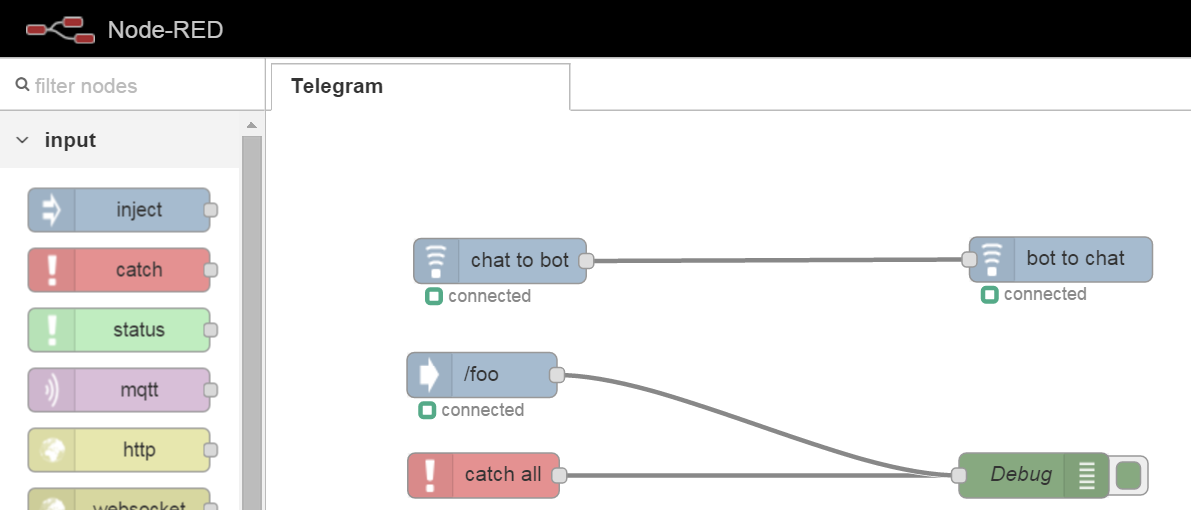
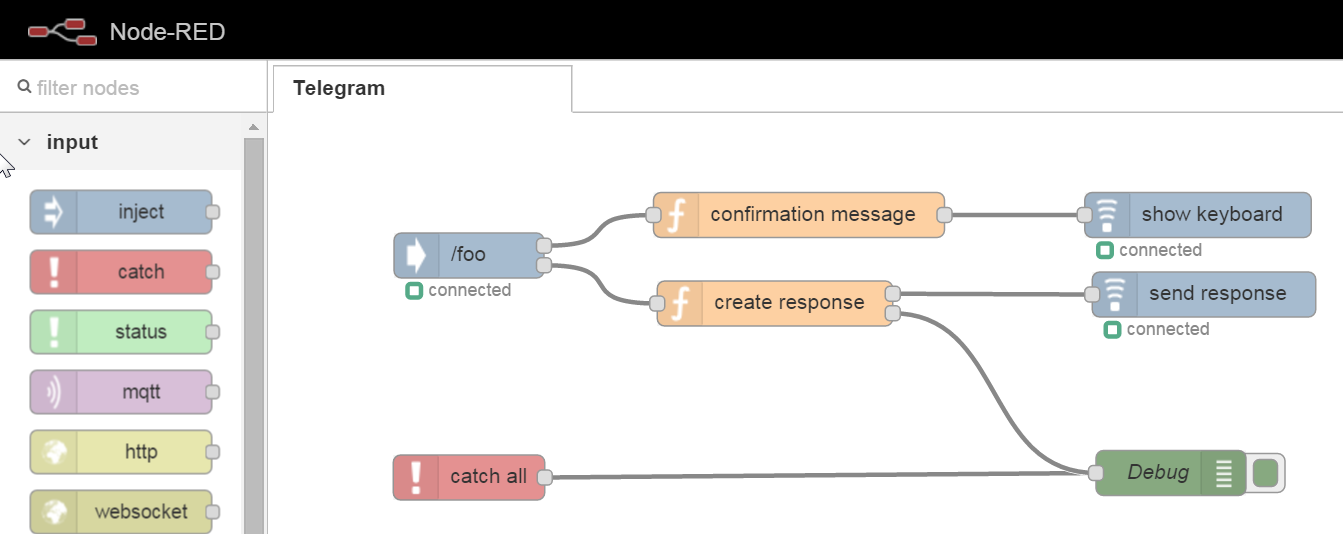
added reply markup support added simple example flows

diff --git a/telegrambot/99-telegrambot.js b/telegrambot/99-telegrambot.js
@@ -18,11 +18,13 @@ module.exports = function(RED) {
         if (this.credentials) {
             this.token = this.credentials.token;
             if (this.token) {
-                this.telegramBot = new telegramBot(this.token, { polling: true });
+                if (!this.telegramBot) {
+                    this.telegramBot = new telegramBot(this.token, { polling: true });
+                }
             }
         }
     }
-    RED.nodes.registerType("telegram-bot", TelegramBotNode, {
+    RED.nodes.registerType("telegram bot", TelegramBotNode, {
         credentials: {
             token: { type: "text" }
         }
@@ -63,31 +65,31 @@ module.exports = function(RED) {
 
                     var messageDetails;
                     if (botMsg.text) {
-                        messageDetails =  { chatId : botMsg.chat.id, type : 'message', content: botMsg.text };
+                        messageDetails = { chatId : botMsg.chat.id, messageId : botMsg.message_id, type : 'message', content: botMsg.text };
                     }
                     else if (botMsg.photo) {
-                        messageDetails = { chatId : botMsg.chat.id, type : 'photo', content: botMsg.photo[0].file_id, caption : botMsg.caption, date : botMsg.date };
+                        messageDetails = { chatId : botMsg.chat.id, messageId : botMsg.message_id, type : 'photo', content: botMsg.photo[0].file_id, caption : botMsg.caption, date : botMsg.date };
                     }
                     else if (botMsg.audio) {
-                        messageDetails = { chatId : botMsg.chat.id, type : 'audio', content: botMsg.audio.file_id, caption : botMsg.caption, date : botMsg.date };
+                        messageDetails = { chatId : botMsg.chat.id, messageId : botMsg.message_id, type : 'audio', content: botMsg.audio.file_id, caption : botMsg.caption, date : botMsg.date };
                     }
                     else if (botMsg.document) {
-                        messageDetails = { chatId : botMsg.chat.id, type : 'document', content: botMsg.document.file_id, caption : botMsg.caption, date : botMsg.date };
+                        messageDetails = { chatId : botMsg.chat.id, messageId : botMsg.message_id, type : 'document', content: botMsg.document.file_id, caption : botMsg.caption, date : botMsg.date };
                     }
                     else if (botMsg.sticker) {
-                        messageDetails = { chatId : botMsg.chat.id, type : 'sticker', content: botMsg.sticker.file_id };
+                        messageDetails = { chatId : botMsg.chat.id, messageId : botMsg.message_id, type : 'sticker', content: botMsg.sticker.file_id };
                     }
                     else if (botMsg.video) {
-                        messageDetails = { chatId : botMsg.chat.id, type : 'video', content: botMsg.video.file_id, caption : botMsg.caption, date : botMsg.date };
+                        messageDetails = { chatId : botMsg.chat.id, messageId : botMsg.message_id, type : 'video', content: botMsg.video.file_id, caption : botMsg.caption, date : botMsg.date };
                     }
                     else if (botMsg.voice) {
-                        messageDetails = { chatId : botMsg.chat.id, type : 'voice', content: botMsg.voice.file_id, caption : botMsg.caption, date : botMsg.date };
+                        messageDetails = { chatId : botMsg.chat.id, messageId : botMsg.message_id, type : 'voice', content: botMsg.voice.file_id, caption : botMsg.caption, date : botMsg.date };
                     } 
                     else if (botMsg.location) {
-                        messageDetails = { chatId : botMsg.chat.id, type : 'location', content: botMsg.location };
+                        messageDetails = { chatId : botMsg.chat.id, messageId : botMsg.message_id, type : 'location', content: botMsg.location };
                     }
                     else if (botMsg.contact) {
-                        messageDetails = { chatId : botMsg.chat.id, type : 'contact', content: botMsg.contact };
+                        messageDetails = { chatId : botMsg.chat.id, messageId : botMsg.message_id, type : 'contact', content: botMsg.contact };
                     }
                     else {
                         // unknown type --> no output
@@ -105,7 +107,7 @@ module.exports = function(RED) {
             node.warn("TelegramInNode: no config.");
         }
     }
-    RED.nodes.registerType("telegram-in", TelegramInNode);
+    RED.nodes.registerType("telegram receiver", TelegramInNode);
 
     
     
@@ -134,22 +136,25 @@ module.exports = function(RED) {
                 this.status({ fill: "green", shape: "ring", text: "connected" });
                 
                 node.telegramBot.on('message', function (botMsg) {
-                    
+
+                    var msg;
                     var messageDetails;
                     if (botMsg.text) {
                         var message = botMsg.text;
                         if (message.startsWith(command)) {
                             var remainingText = message.replace(command, "");
-                            messageDetails = { chatId : botMsg.chat.id, type : 'message', content: remainingText };
+
+                            messageDetails = { chatId : botMsg.chat.id, messageId : botMsg.message_id, type : 'message', content: remainingText };
+                            msg = { payload: messageDetails, originalMessage : botMsg };
+                            node.send([msg, null]);
+                        } else {
+                            messageDetails = { chatId : botMsg.chat.id, messageId : botMsg.message_id, type : 'message', content: botMsg.text };
+                            msg = { payload: messageDetails, originalMessage : botMsg };
+                            node.send([null, msg]);
                         }
                     }
                     else {
                         // unknown type --> no output
-                    }
-                    
-                    if (messageDetails) {
-                        var msg = { payload: messageDetails, originalMessage : botMsg };
-                        node.send(msg);
                     }
                 });
             }
@@ -159,7 +164,7 @@ module.exports = function(RED) {
             node.warn("TelegramCommandNode: no config.");
         }
     }
-    RED.nodes.registerType("telegram-command", TelegramCommandNode);
+    RED.nodes.registerType("telegram command", TelegramCommandNode);
     
     
 
@@ -202,33 +207,33 @@ module.exports = function(RED) {
             
             switch (type) {
                 case 'message':
-                    node.telegramBot.sendMessage(chatId, msg.payload.content);
+                    node.telegramBot.sendMessage(chatId, msg.payload.content, msg.payload.options);
                     break;
                 case 'photo':
-                    node.telegramBot.sendPhoto(chatId, msg.payload.content);
+                    node.telegramBot.sendPhoto(chatId, msg.payload.content, msg.payload.options);
                     break;
                 case 'audio':
-                    node.telegramBot.sendAudio(chatId, msg.payload.content);
+                    node.telegramBot.sendAudio(chatId, msg.payload.content, msg.payload.options);
                     break;
                 case 'document':
-                    node.telegramBot.sendDocument(chatId, msg.payload.content);
+                    node.telegramBot.sendDocument(chatId, msg.payload.content, msg.payload.options);
                     break;
                 case 'sticker':
-                    node.telegramBot.sendSticker(chatId, msg.payload.content);
+                    node.telegramBot.sendSticker(chatId, msg.payload.content, msg.payload.options);
                     break;
                 case 'video':
-                    node.telegramBot.sendVideo(chatId, msg.payload.content, msg.payload.caption);
+                    node.telegramBot.sendVideo(chatId, msg.payload.content, msg.payload.options);
                     break;
                 case 'voice':
-                    node.telegramBot.sendVoice(chatId, msg.payload.content);
+                    node.telegramBot.sendVoice(chatId, msg.payload.content, msg.payload.options);
                     break;
                 case 'location':
-                    node.telegramBot.sendLocation(chatId, msg.payload.content.latitude, msg.payload.content.longitude);
+                    node.telegramBot.sendLocation(chatId, msg.payload.content.latitude, msg.payload.content.longitude, msg.payload.options);
                     break;
                 default:
                     // unknown type nothing to send.
             }            
         });
     }
-    RED.nodes.registerType("telegram-out", TelegramOutNode);   
+    RED.nodes.registerType("telegram sender", TelegramOutNode);   
 }

diff --git a/telegrambot/99-telegrambot.html b/telegrambot/99-telegrambot.html
@@ -2,7 +2,7 @@
 
 <!-- ------------------------------------------------------------------------------------------ -->
 <script type="text/javascript">
-    RED.nodes.registerType('telegram-bot', {
+    RED.nodes.registerType('telegram bot', {
         category: 'config',
         defaults: {
             botname: { value: "fooBot", required: true }
@@ -16,7 +16,7 @@
     });
 </script>
 
-<script type="text/x-red" data-template-name="telegram-bot">
+<script type="text/x-red" data-template-name="telegram bot">
     <div class="form-row">
         <label for="node-config-input-botname"><i class="icon-bookmark"></i> Bot-Name</label>
         <input type="text" id="node-config-input-botname">
@@ -27,29 +27,29 @@
     </div>
 </script>
 
-<script type="text/x-red" data-help-name="telegram-bot">
+<script type="text/x-red" data-help-name="telegram bot">
     <p>A configuration node that holds the token of the telegram bot.</p>
 </script>
 
 <!-- ------------------------------------------------------------------------------------------ -->
 <script type="text/javascript">
-    RED.nodes.registerType('receiver', {
+    RED.nodes.registerType('telegram receiver', {
         category: 'telegram',
         color: '#a6bbcf',
         defaults: {
             name: { value: "" },
-            bot: { value:"", type: "telegram-bot", required: true }
+            bot: { value:"", type: "telegram bot", required: true }
         },
         inputs: 0,
         outputs: 1,
         icon: "feed.png",
         label: function () {
-            return this.name || "Telegram-In";
+            return this.name || "Telegram Receiver";
         }
     });
 </script>
 
-<script type="text/x-red" data-template-name="receiver">
+<script type="text/x-red" data-template-name="telegram receiver">
     <div class="form-row">
         <label for="node-input-name"><i class="icon-tag"></i> Name</label>
         <input type="text" id="node-input-name" placeholder="Name">
@@ -60,31 +60,31 @@
     </div>
 </script>
 
-<script type="text/x-red" data-help-name="telegram-in">
+<script type="text/x-red" data-help-name="telegram receiver">
     <p>A telegram node that triggers the output when some message is received from the chat.</p>
 </script>
 
 
 <!-- ------------------------------------------------------------------------------------------ -->
 <script type="text/javascript">
-    RED.nodes.registerType('command', {
+    RED.nodes.registerType('telegram command', {
         category: 'telegram',
         color: '#a6bbcf',
         defaults: {
             name: { value: "" },
             command: { value: ""},
-            bot: { value: "", type: "telegram-bot", required: true }
+            bot: { value: "", type: "telegram bot", required: true }
         },
         inputs: 0,
-        outputs: 1,
+        outputs: 2,
         icon: "arrow-in.png",
         label: function () {
-            return this.name || "Telegram-Command";
+            return this.name || "Telegram Command";
         }
     });
 </script>
 
-<script type="text/x-red" data-template-name="command">
+<script type="text/x-red" data-template-name="telegram command">
     <div class="form-row">
         <label for="node-input-name"><i class="icon-tag"></i> Name</label>
         <input type="text" id="node-input-name" placeholder="Name">
@@ -99,29 +99,29 @@
     </div>
 </script>
 
-<script type="text/x-red" data-help-name="telegram-command">
+<script type="text/x-red" data-help-name="telegram command">
     <p>A telegram node that triggers the output when a specified command is received from the chat.</p>
 </script>
 
 <!-- ------------------------------------------------------------------------------------------ -->
 <script type="text/javascript">
-    RED.nodes.registerType('sender', {
+    RED.nodes.registerType('telegram sender', {
         category: 'telegram',
         color: '#a6bbcf',
         defaults: {
             name: { value: "" },
-            bot: { value: "", type: "telegram-bot", required: true }
+            bot: { value: "", type: "telegram bot", required: true }
         },
         inputs: 1,
         outputs: 0,
         icon: "feed.png",
         label: function () {
-            return this.name || "Telegram-Out";
+            return this.name || "Telegram Sender";
         }
     });
 </script>
 
-<script type="text/x-red" data-template-name="sender">
+<script type="text/x-red" data-template-name="telegram sender">
     <div class="form-row">
         <label for="node-input-name"><i class="icon-tag"></i> Name</label>
         <input type="text" id="node-input-name" placeholder="Name">
@@ -132,7 +132,7 @@
     </div>
 </script>
 
-<script type="text/x-red" data-help-name="telegram-out">
+<script type="text/x-red" data-help-name="telegram sender">
     <p>A telegram node that sends the content to the chat.</p>
 </script>
 <!-- ------------------------------------------------------------------------------------------ -->
